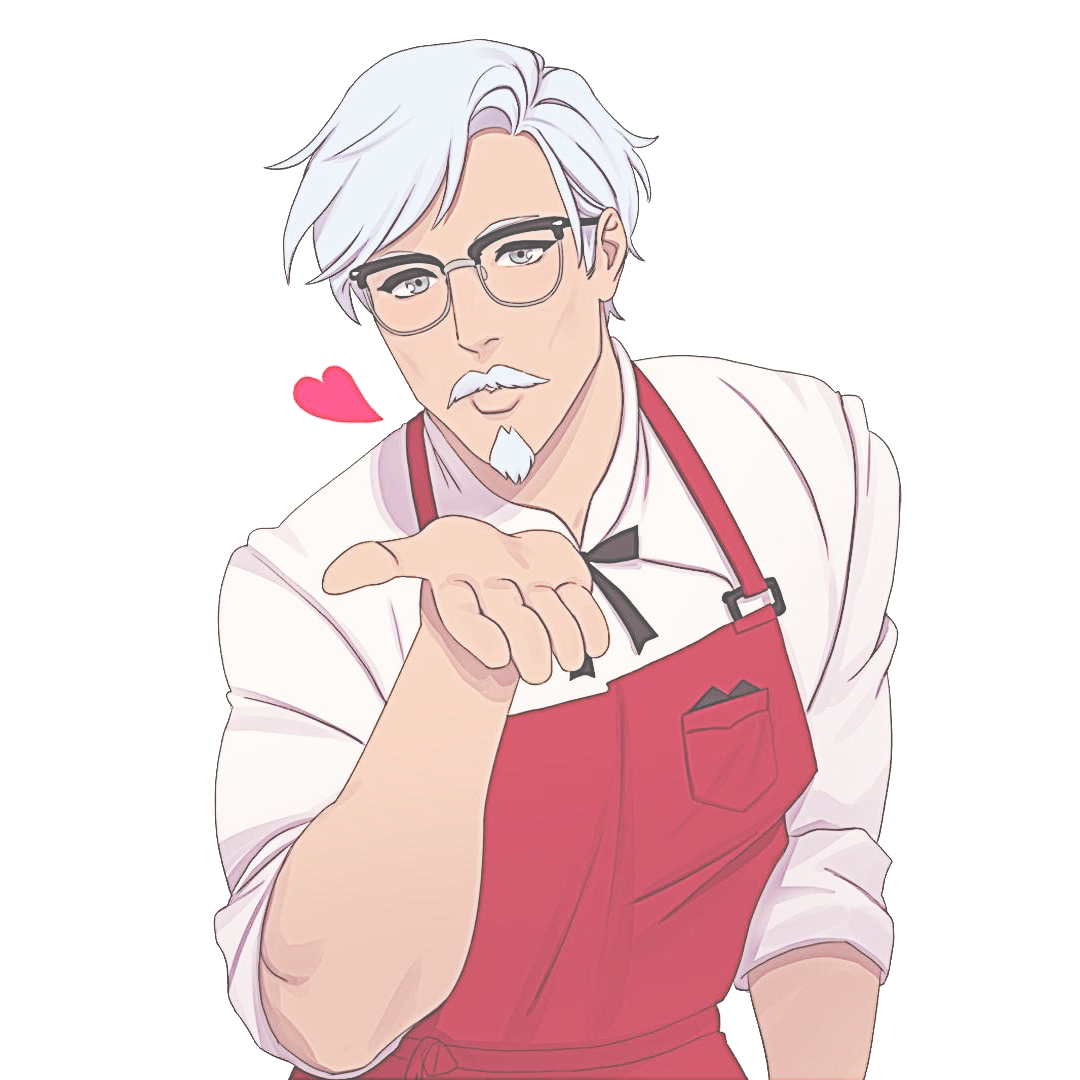
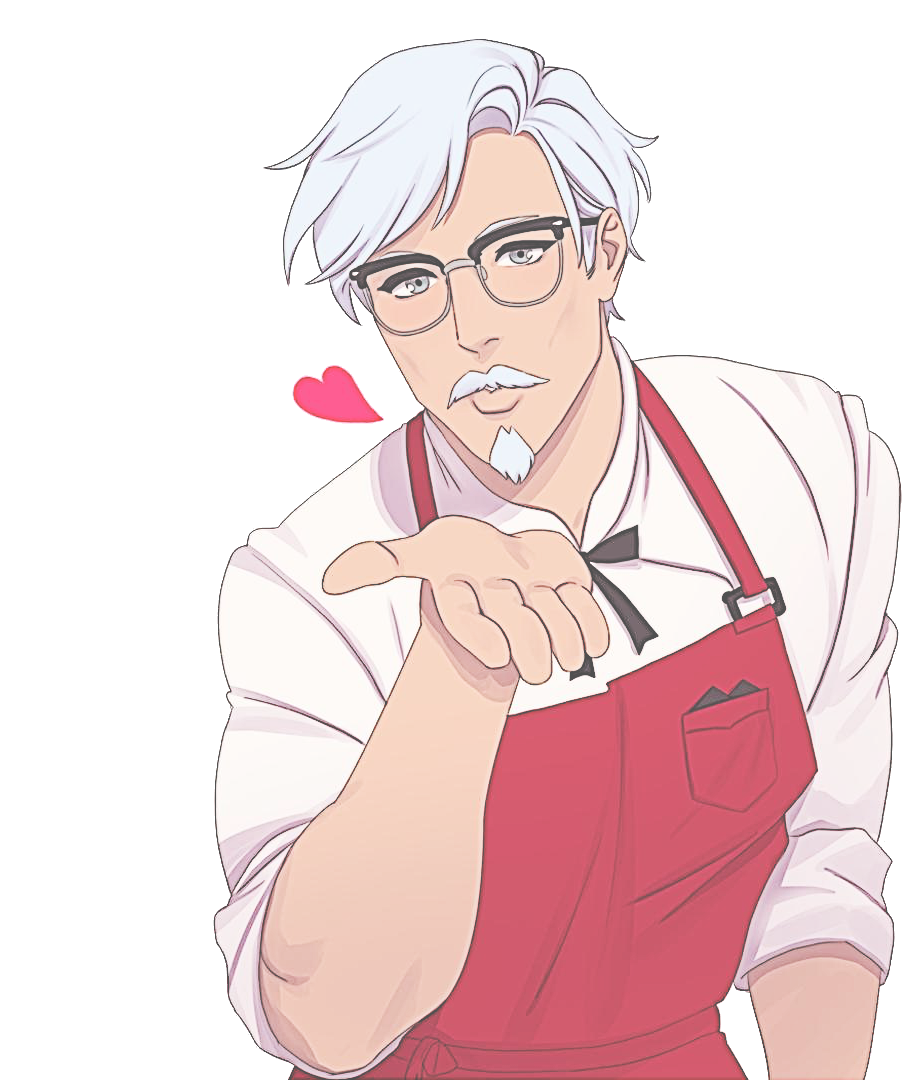
image change

diff --git a/index.html b/index.html
@@ -17,8 +17,8 @@
 <canvas id="canvas"></canvas>
 <body>
 
-<div class="ellis"><img src="images/borger.png" alt="ellis with borger" style="width:800px"> </div>
-<div class="sanders"><img src="images/colonel sanders.png" alt="sexy sanders" style="width:800px"> </div>  
+<div class="ellis"><img src="images/borger.png" alt="ellis with borger" style="height:800px"> </div>
+<div class="sanders"><img src="images/colonel sanders.png" alt="sexy sanders" style="height:800px"> </div>  
 <div class="Maccus"> <p>WE GO MACCUS?!?!</p></div>
 
     <div class="click">
@@ -27,6 +27,6 @@
 
     </div>
 
-    <div class="back"><p>No, go back</p></div>
+    <!-- <div class="back"><p>No, go back</p></div> -->
 </body>
 </html>

diff --git a/style/homepage.css b/style/homepage.css
@@ -10,7 +10,7 @@ body{
     width: 40%;
     height: 30%;
     margin-top: 0px;
-    margin-left: 350px;
+    margin-left: 450px;
     border-radius: 100px;
     padding-left: 30px;
     position: absolute;
@@ -25,7 +25,7 @@ body{
     width: 40%;
     height: 30%;
     margin-top: 0px;
-    margin-left: 350px;
+    margin-left: 450px;
     border-radius: 100px;
     padding-left: 30px;
     position: absolute;
@@ -65,7 +65,7 @@ a:link {
 .sanders{
     position: absolute;
     top:0px;
-    right: -100px;
+    right: 20px;
 }
 
 .back{
